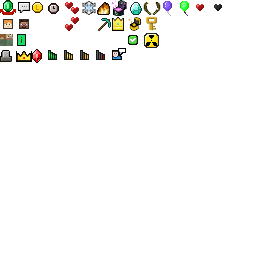
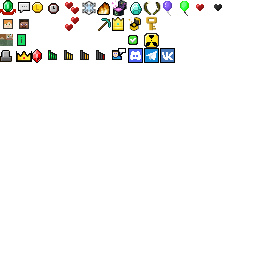
UPD 1.5.1
-Social media icons

Changed region(s): [[0.5, 0.1875, 0.6875, 0.25]]

diff --git a/README.md b/README.md
@@ -1,2 +1,12 @@
 # LMRP Bedrock
- MCBedrock resource pack for LifeMine server.
+BEDROCK версия ресурс-пака разработанного специально для сервера LifeMine
+ 
+![IP](https://img.shields.io/badge/IP-play.lmmc.ru-brightgreen?style=for-the-badge "play.lmmc.ru")
+![JAVA PORT](https://img.shields.io/badge/Port%20JAVA-25565-brightgreen?style=for-the-badge "25565")
+![BEDROCK PORT](https://img.shields.io/badge/Port%20MCBE-19135-brightgreen?style=for-the-badge "19135")
+![MC VER](https://img.shields.io/badge/%D0%92%D0%B5%D1%80%D1%81%D0%B8%D1%8F%20MC-1.18.X--1.19-brightgreen?style=for-the-badge "MCBE - 1.18-1.18.30 JAVA - 1.18+")
+
+[![visit website button](https://img.shields.io/twitter/url?color=blue&label=%D0%92%D0%BA%D0%BE%D0%BD%D1%82%D0%B0%D0%BA%D1%82%D0%B5&logo=VK&logoColor=blue&style=for-the-badge&url=https%3A%2F%2Fvk.com%2Flifemineserver&link=vk.com/lifemineserver)](https://vk.com/lifemineserver)
+[![visit website button](https://img.shields.io/twitter/url?color=blue&label=Telegram&logo=Telegram&logoColor=blue&style=for-the-badge&url=https%3A%2F%2Fwww.t.me%2Flifemineserver&link=t.me/lifemineserver)](https://t.me/lifemineserver)
+[![visit website button](https://img.shields.io/discord/431879310757068800?style=for-the-badge)](https://discord.com/invite/5wuzMRSXkN)
+[![visit website button](https://img.shields.io/badge/Веб--Сайт-lmmc.ru-brightgreen?style=for-the-badge&logo=github)](https://lmmc.ru)
